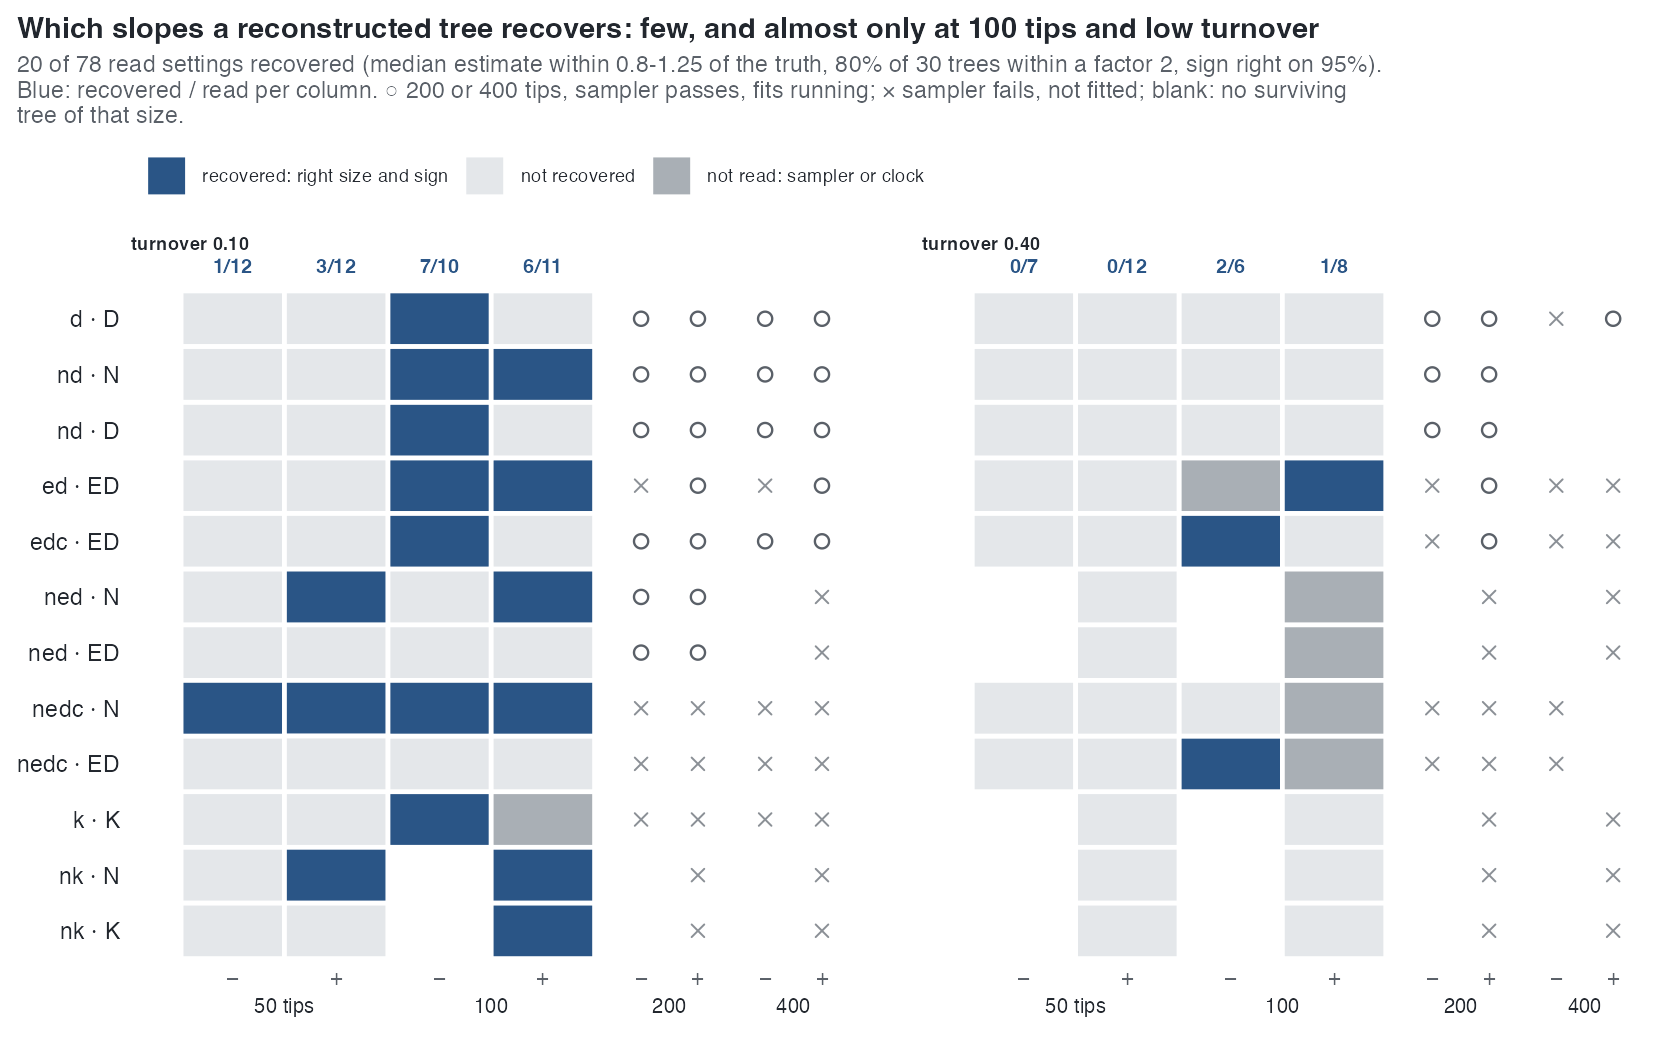
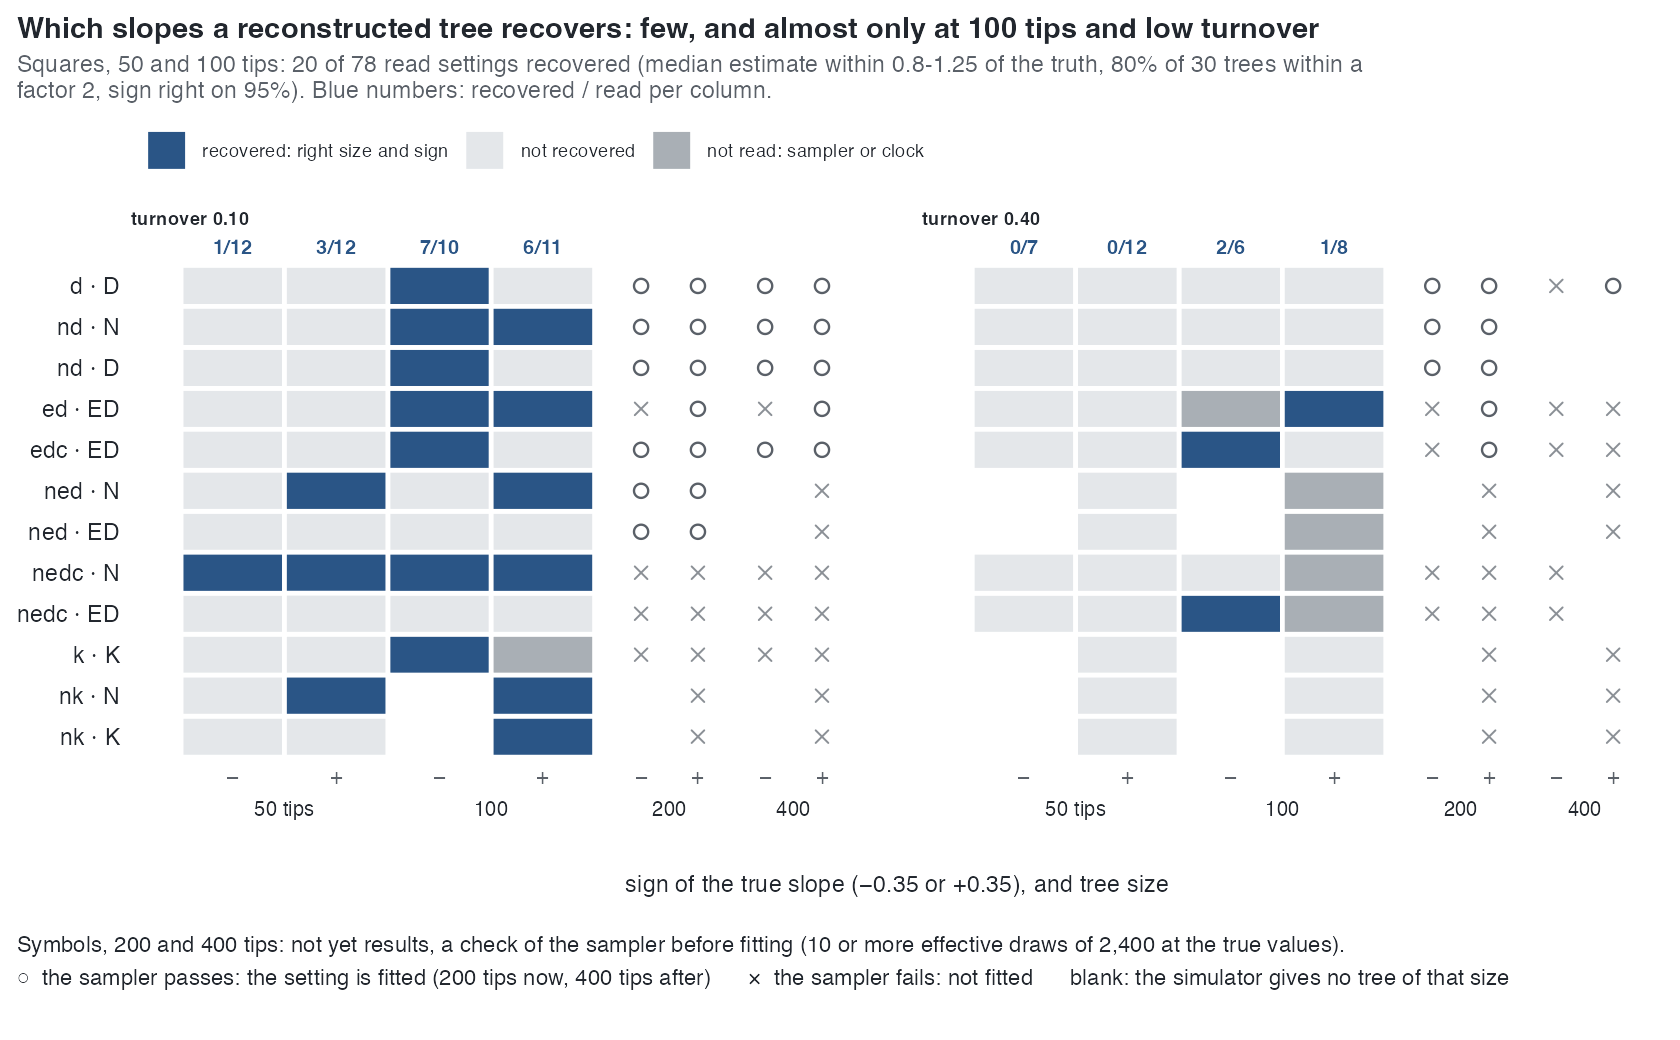
Site rebuilt: progress figure removed from the experiments index; the estimability figure keys its 200/400-tip symbols

diff --git a/docs/experiments/index.html b/docs/experiments/index.html
@@ -106,17 +106,14 @@ window.MathJax = {
 <p>These are the pre-registered experiments behind the <code>emphasis</code> package: each tests the Monte Carlo EM estimator against an exact answer or a generating value, or asks what a dated tree can estimate. The <strong>validation series V1–V12</strong> validates every method the two papers use, under one protocol: calibrated generators with no size window, the likelihood conditioned on survival, the exponential link, the package's default stopping rule, and a fit on the 1000-iteration cap read as the estimate (build 1.1.0.9000, <code>b21083f</code>, for the runs since 7 November). The experiments E1–E48 before it are the earlier record; each row below says what of it holds now. The conclusions that hold now are collected in <a href="../established.html">What we know</a>, what a tree of a given size estimates in <a href="estimability.html">Estimability</a>, and the terms in the <a href="../glossary.html">Glossary</a>.</p>
 <h2 id="where-the-series-stands-21-november-2026">Where the series stands (21 November 2026)</h2>
 <figure id="figure-1">
-<img src="../assets/wiki/state-progress.png" alt="What is running and when it ends: recovery at 50 and 100 tips (V5) and at 200 tips (V5b) are nearly done; model choice at 200 tips (V7b) and the two real-tree refits (V11b, V11c) end between 23 and 27 November." loading="lazy">
-<figcaption><strong>Figure 1.</strong> What is running and when it ends: recovery at 50 and 100 tips (V5) and at 200 tips (V5b) are nearly done; model choice at 200 tips (V7b) and the two real-tree refits (V11b, V11c) end between 23 and 27 November.</figcaption>
-</figure><figure id="figure-2">
 <img src="../assets/wiki/state-estimability.png" alt="Which lineage-level slopes a reconstructed tree recovers, by model, turnover, effect and size (V5 at 50 and 100 tips; the V5 sampler gate at 200 and 400 tips). A slope is recovered when the median estimate lies within 0.8 to 1.25 of the truth, 80% of the 30 trees within a factor of 2, and the sign is right on 95%." loading="lazy">
-<figcaption><strong>Figure 2.</strong> Which lineage-level slopes a reconstructed tree recovers, by model, turnover, effect and size (V5 at 50 and 100 tips; the V5 sampler gate at 200 and 400 tips). A slope is recovered when the median estimate lies within 0.8 to 1.25 of the truth, 80% of the 30 trees within a factor of 2, and the sign is right on 95%.</figcaption>
-</figure><figure id="figure-3">
+<figcaption><strong>Figure 1.</strong> Which lineage-level slopes a reconstructed tree recovers, by model, turnover, effect and size (V5 at 50 and 100 tips; the V5 sampler gate at 200 and 400 tips). A slope is recovered when the median estimate lies within 0.8 to 1.25 of the truth, 80% of the 30 trees within a factor of 2, and the sign is right on 95%.</figcaption>
+</figure><figure id="figure-2">
 <img src="../assets/wiki/state-choice.png" alt="How often the ladder (cr, dd, nd, ned, nk) names the generating covariate on trees of about 100 tips (V7), with 95% Wilson intervals; the rule asks for 80%." loading="lazy">
-<figcaption><strong>Figure 3.</strong> How often the ladder (cr, dd, nd, ned, nk) names the generating covariate on trees of about 100 tips (V7), with 95% Wilson intervals; the rule asks for 80%.</figcaption>
-</figure><figure id="figure-4">
+<figcaption><strong>Figure 2.</strong> How often the ladder (cr, dd, nd, ned, nk) names the generating covariate on trees of about 100 tips (V7), with 95% Wilson intervals; the rule asks for 80%.</figcaption>
+</figure><figure id="figure-3">
 <img src="../assets/wiki/state-real.png" alt="What the 175 bird and mammal trees return under the two registered readings of V11: the model each read tree chooses, and the fit that leaves each unread tree unread." loading="lazy">
-<figcaption><strong>Figure 4.</strong> What the 175 bird and mammal trees return under the two registered readings of V11: the model each read tree chooses, and the fit that leaves each unread tree unread.</figcaption>
+<figcaption><strong>Figure 3.</strong> What the 175 bird and mammal trees return under the two registered readings of V11: the model each read tree chooses, and the fit that leaves each unread tree unread.</figcaption>
 </figure><h2 id="identifiable-estimable-informative">Identifiable, estimable, informative</h2>
 <p>These pages keep three properties apart, because each belongs to a different thing.</p>
 <ul>
